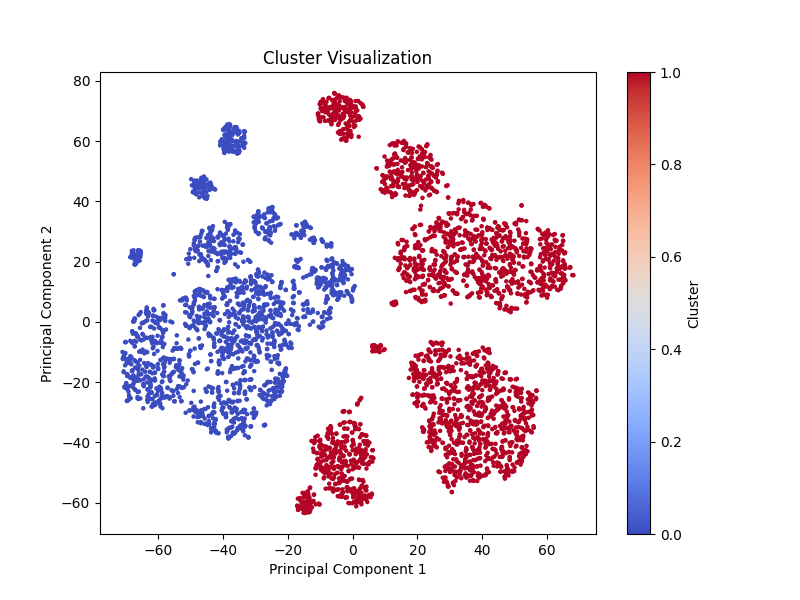
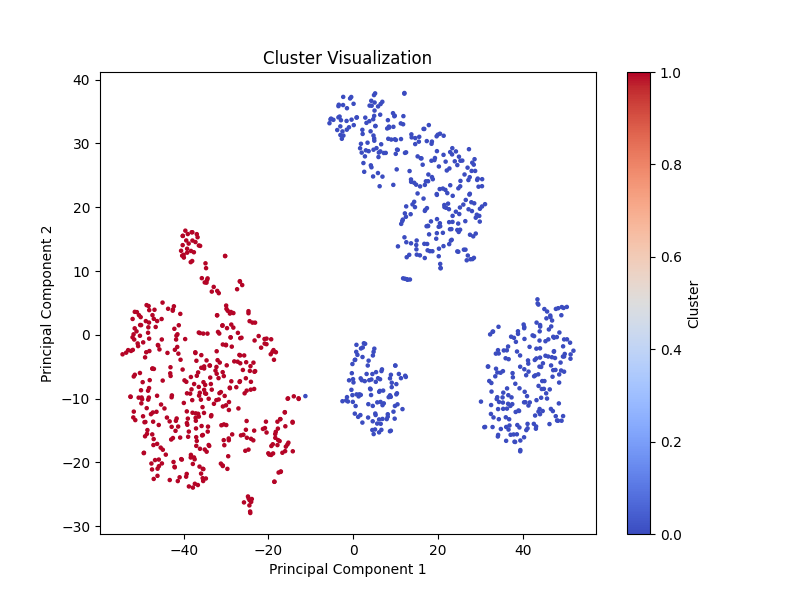
added Hierarchical Clustering

diff --git a/n/test.py b/n/test.py
@@ -5,7 +5,8 @@ import seaborn as sns
 import requests
 import json
 
-from sklearn.cluster import DBSCAN, KMeans
+from sklearn.cluster import DBSCAN, KMeans, AgglomerativeClustering
+from scipy.cluster.hierarchy import dendrogram, linkage
 from sklearn.decomposition import PCA
 from sklearn.manifold import TSNE
 from sklearn.metrics import silhouette_score
@@ -20,7 +21,7 @@ import sklearn
 df = pd.read_csv("full_data_flightdelay.csv.xz", compression='xz')
 
 # Take a random sample of n rows
-df = df.sample(n=5000, random_state=42) # use random_state for reproducibility
+df = df.sample(n=1000, random_state=42) # use random_state for reproducibility
 
 ##########################
 ## INITIAL DATA EXPLORATION
@@ -114,6 +115,25 @@ df_normalize = pd.DataFrame(df_normalize, columns=df_clustering.columns )
 
 #######################################
 # 4. Clustering
+def visualize_cluster(x, y, clustering, filename="scatter_plot.png"):
+    plt.figure(figsize=(8, 6))
+    scatter = plt.scatter(x, y, c=clustering, cmap='coolwarm', s=5)
+    plt.colorbar(scatter, label='Cluster')
+    plt.xlabel('Principal Component 1')
+    plt.ylabel('Principal Component 2')
+    plt.title('Cluster Visualization')
+    plt.savefig(filename)
+    plt.close()
+    return 0
+
+def reduce_dimensions(data, method="pca", n_components=2):
+    if method == "pca":
+        reducer = PCA(n_components=n_components)
+    elif method == "tsne":
+        reducer = TSNE(n_components=n_components, random_state=42)
+    else:
+        raise ValueError("Unsupported dimensionality reduction method!")
+    return reducer.fit_transform(data)
 
 # KMEANS with Elbow Method
 # km = KMeans(n_clusters=2, random_state=42)
@@ -158,40 +178,47 @@ plt.ylabel('Silhouette Score')
 plt.xticks(k_range)
 plt.savefig('silh.png')
 
-
-def visualize_cluster(x, y, clustering, filename="scatter_plot.png"):
-    plt.figure(figsize=(8, 6))
-    scatter = plt.scatter(x, y, c=clustering, cmap='coolwarm', s=5)
-    plt.colorbar(scatter, label='Cluster')
-    plt.xlabel('Principal Component 1')
-    plt.ylabel('Principal Component 2')
-    plt.title('Cluster Visualization')
-    plt.savefig(filename)
-    plt.close()
-    return 0
-
-def reduce_dimensions(data, method="pca", n_components=2):
-    if method == "pca":
-        reducer = PCA(n_components=n_components)
-    elif method == "tsne":
-        reducer = TSNE(n_components=n_components, random_state=42)
-    else:
-        raise ValueError("Unsupported dimensionality reduction method!")
-    return reducer.fit_transform(data)
-
-data = df_normalize
-
 # Dimensionality Reduction (use PCA or t-SNE)
-reduced_data_pca = reduce_dimensions(data, method="pca")  # 2D PCA
-reduced_data_tsne = reduce_dimensions(data, method="tsne")  # 2D t-SNE
+reduced_data_pca = reduce_dimensions(df_normalize, method="pca")  # 2D PCA
+reduced_data_tsne = reduce_dimensions(df_normalize, method="tsne")  # 2D t-SNE
 
 # Clustering: KMeans
-kmeans = KMeans(n_clusters=6, random_state=42)
-kmeans_labels = kmeans.fit_predict(data)
+kmeans = KMeans(n_clusters=2, random_state=42)
+kmeans_labels = kmeans.fit_predict(df_normalize)
 
 # Visualize KMeans Results
-visualize_cluster(reduced_data_pca[:, 0], reduced_data_pca[:, 1], kmeans_labels, "6-kmeans_pca.png")
-visualize_cluster(reduced_data_tsne[:, 0], reduced_data_tsne[:, 1], kmeans_labels, "6-kmeans_tsne.png")
+visualize_cluster(reduced_data_pca[:, 0], reduced_data_pca[:, 1], kmeans_labels, "2-kmeans_pca.png")
+visualize_cluster(reduced_data_tsne[:, 0], reduced_data_tsne[:, 1], kmeans_labels, "2-kmeans_tsne.png")
+
+# Hierarchical Clustering (Agglomerative Clustering)
+
+# Compute the linkage matrix
+Z = linkage(df_normalize, method='ward')  # 'ward' minimizes the variance of clusters
+
+# Plot the dendrogram
+plt.figure(figsize=(10, 7))
+dendrogram(Z)
+plt.title('Dendrogram for Hierarchical Clustering')
+plt.xlabel('Sample Index')
+plt.ylabel('Distance')
+plt.savefig('dengdrogram.png')
+
+# Based on dendrogram use n_clusters = 2 or 3
+agg_clustering = AgglomerativeClustering(n_clusters=2)
+agg_labels = agg_clustering.fit_predict(df_normalize)
+
+# Dimensionality Reduction (use PCA or t-SNE)
+reduced_data_pca_HC = reduce_dimensions(df_normalize, method="pca")
+reduced_data_tsne_HC = reduce_dimensions(df_normalize, method="tsne")
+
+# Visualize Hierarchical Clustering Results
+visualize_cluster(reduced_data_pca_HC[:, 0], reduced_data_pca_HC[:, 1], agg_labels, filename="agglomerative_pca.png")
+visualize_cluster(reduced_data_tsne_HC[:, 0], reduced_data_tsne_HC[:, 1], agg_labels, filename="agglomerative_tsne.png")
+
+agg_sil_score = silhouette_score(df_normalize, agg_labels)
+print(f"Silhouette Score for Agglomerative Clustering: {agg_sil_score}")
+
+
 
 
 # Reserve train.csv and test.csv for Benchmarking.
